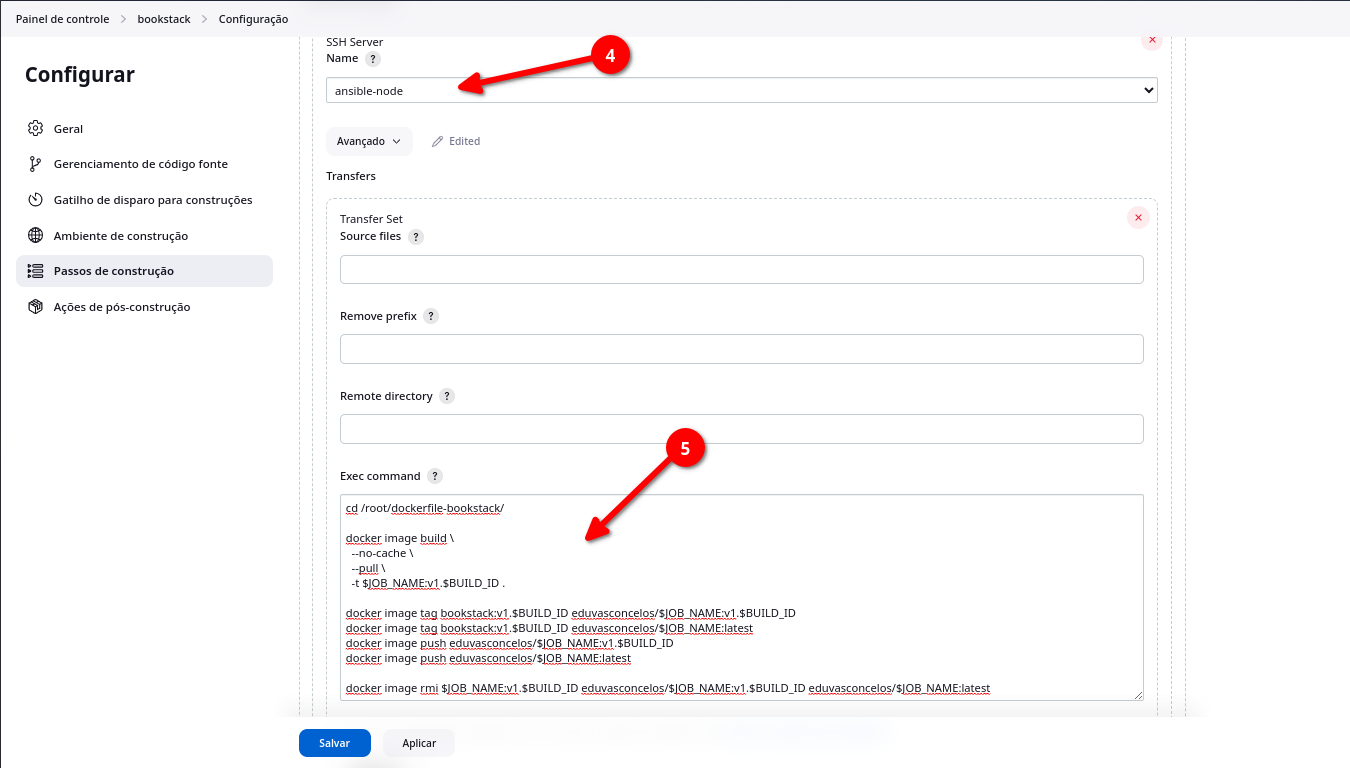
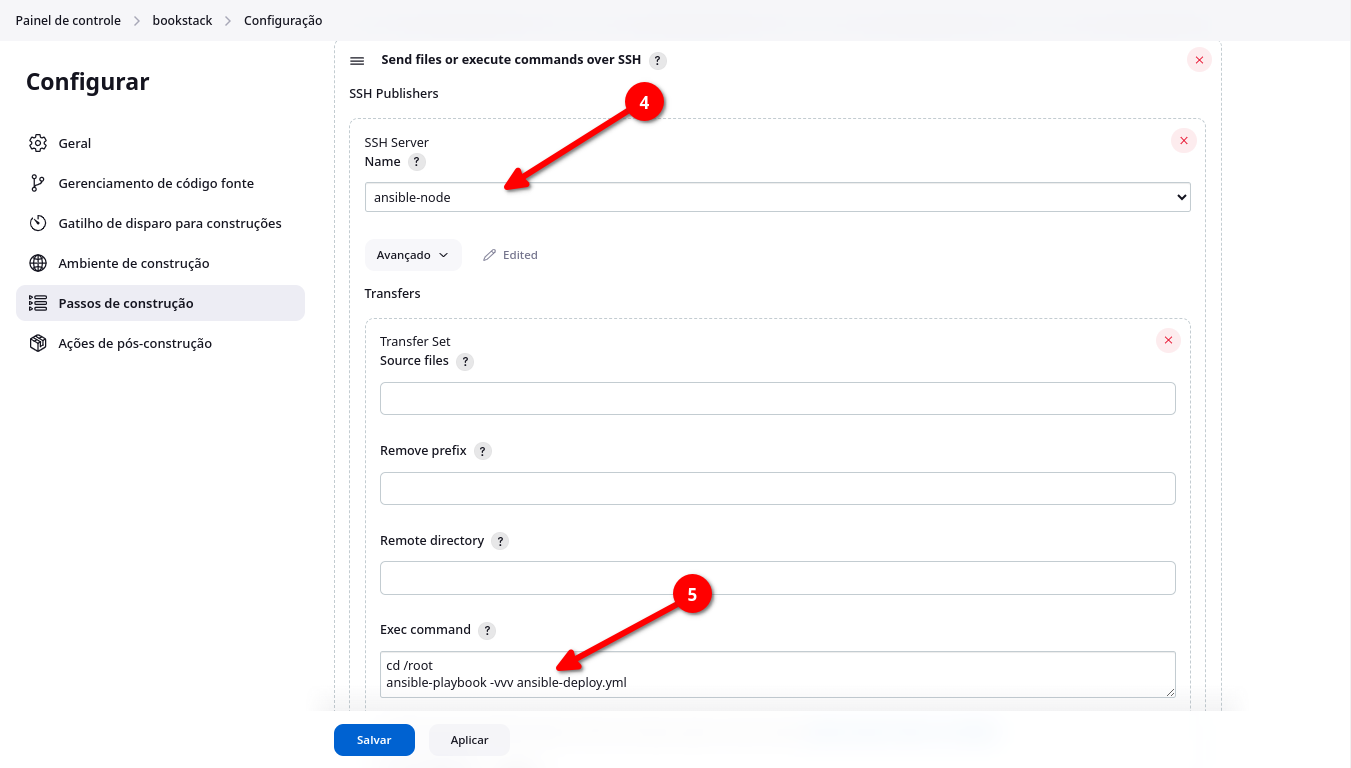
atualizando a doc

diff --git a/docs/index.md b/docs/index.md
@@ -26,11 +26,6 @@ Para fazer isso você deve alterar o arquivo "hosts", para isso, execute o segui
 172.24.9.81 jenkins-node
 172.24.9.80 webapp-node
 
-# The following lines are desirable for IPv6 capable hosts
-::1     localhost ip6-localhost ip6-loopback
-ff02::1 ip6-allnodes
-ff02::2 ip6-allrouters
-
 # LEMBRE-SE! Mude os IPs e os hostnames de acordo com sua necessidade, um IP e hostname que sirvam para mim podem não servir para você e vice-versa.
 ```
 
@@ -45,16 +40,16 @@ nano /etc/ssh/sshd_config
 PermitRootLogin yes
 ```
 
-Para aplicar as alterações feitas, reinicie sua máquina, você pode usar o comando `sudo systemctl sshd`.
+Para aplicar as alterações feitas, reinicie o serviço de sshd, você pode usar o comando `sudo systemctl restart sshd`
 
 Para a conexão do cluster funcionar, precisamos da chave SSH. Somente assim as máquinas poderão comunicar-se entre si com segurança e agilidade. Execute o seguinte comando nos dois nodes para gerar a chave SSH:
 
 ```bash
 ssh-keygen -t ed-25519
-# Agora é só dar enter até cansar
+# Agora é só apertar "enter" até cansar
 ```
 
-Após isso, vamos criar um arquivo de configuração ssh nos dois nodes para automatizar a "passagem" das chaves SSH de um node para o outro. Crie um arquivo de configuração ssh com o comando `nano ~/.ssh/config`.
+Após isso, vamos criar um arquivo de configuração ssh nos dois nodes para automatizar a "passagem" das chaves SSH de um node para o outro. Crie um arquivo de configuração ssh com o comando `nano ~/.ssh/config`
 
 ```bash
 Host ansible-node
@@ -70,7 +65,7 @@ Host webapp-node
 # LEMBRE-SE! Mude o 'Host' e 'hostname' de acordo com sua necessidade
 ```
 
-Além disso, mude as permissões do arquivo de configuração nos dois nodes com `chmod 600 ~/.ssh/config`.
+Além disso, mude as permissões do arquivo de configuração nos dois nodes com `chmod 600 ~/.ssh/config`
 
 Por fim, execute esses comandos, nos três servers, para "enviar" a chave ssh de um node para o outro:
 
@@ -92,17 +87,17 @@ ssh-copy-id webapp-node
 
 # Instalando o Jenkins no jenkins-node
 
-Você pode instalar o Jenkins com o script que eu disponibilizei no repositório devops-ci-cd-bookstack. Há duas maneiras que você pode ter acesso ao script.
+Você pode instalar o Jenkins com o script que eu disponibilizei no repositório [devops-ci-cd-bookstack](https://github.com/EduardoVasconceloss/devops-ci-cd-project). Há duas maneiras que você pode ter acesso ao script:
 
 - **1° Opção:** Clone o repositório para fazer o download do script.
 
-```bash
+````bash
 git clone https://github.com/EduardoVasconceloss/devops-ci-cd-bookstack.git
 cd devops-ci-cd-bookstack
 ./install-jenkins.sh
-```
+```s
 
-- **2° Opção:** Crie o arquivo do script localmente nano install-jenkins.sh e cole o código abaixo no arquivo.
+- **2° Opção:** Crie o arquivo do script localmente com o comando `nano install-jenkins.sh` e cole o código abaixo no arquivo criado.
 
 ```bash
 #!/bin/bash
@@ -118,6 +113,85 @@ echo deb [signed-by=/usr/share/keyrings/jenkins-keyring.asc] \
 sudo apt update -y
 sudo apt install -y fontconfig openjdk-17-jre-headless openjdk-17-jre
 sudo apt install -y jenkins
-```
+````
 
 > **Lembre-se:** Se você optar por fazer a **2° opção**, você deve mudar as permissões do arquivo "install-jenkins.sh" com o comando `chmod +x install-jenkins.sh`. Agora para executar o script basta executar `./install-jenkins.sh`.
+
+---
+
+# Instalando o Ansible e Docker no ansible-node
+
+> **Nota:** Você pode instalar o Ansible e o Docker com os scripts que eu disponibilizei no repositório [devops-ci-cd-bookstack](https://github.com/EduardoVasconceloss/devops-ci-cd-project).
+
+- **1° Passo:** Capture os arquivos via **"SCP"** do **jenkins-node** para o **ansible-node** e entre no diretório onde os scripts estão.
+
+```bash
+scp root@jenkins-node:/var/lib/jenkins/workspace/bookstack/install-*  /var/tmp/ && cd /var/tmp/
+```
+
+- **2° Passo:** Execute os scripts do Ansible e Docker.
+
+```bash
+# Primeiramente, execute o script do ansible
+./install-ansible.sh
+
+# Segundamente, execute o script do docker
+./install-docker.sh
+```
+
+## Configurando o Ansible e Docker no ansible-node
+
+Você deve editar o arquivo de configuração do ansible para que possamos executar o playbook sem problemas.
+
+- Acesse o diretório do ansible com o comando `cd /etc/ansible/` e altere o arquivo de configuração do ansible com o comando `nano ansible.cfg`.
+
+```bash
+# O seu "ansible.cfg" deve estar com essa configuração:
+[defaults]
+inventory = /etc/ansible/hosts
+remote_user = root
+private_key_file = /root/.ssh/id_ed25519
+```
+
+- Agora altere seu arquivo **"hosts"** para que o ansible se conecte com outros servidores.
+
+```bash
+[ansible-node]
+<IP-do-ansible-node>
+
+[jenkins-node]
+<IP-do-jenkins-node>
+
+[webapp-node]
+<IP-do-webapp-node>
+```
+
+- Por fim, faça o login com sua conta do Dockerhub para ter poder fazer o upload de suas imagens.
+
+```bash
+docker login
+```
+
+---
+
+# Instalando e configurando o Docker no webapp-node
+
+> **Nota:** Você pode instalar o Ansible e o Docker com os scripts que eu disponibilizei no repositório [devops-ci-cd-bookstack](https://github.com/EduardoVasconceloss/devops-ci-cd-project).
+
+- **1° Passo:** Capture os arquivos via **"SCP"** do **jenkins-node** para o **webapp-node** e entre no diretório onde os scripts estão.
+
+```bash
+scp root@jenkins-node:/var/lib/jenkins/workspace/bookstack/install-*  /var/tmp/ && cd /var/tmp/
+```
+
+- **2° Passo:** Execute os scripts do Docker.
+
+```bash
+./install-docker.sh
+```
+
+- **3° Passo:** Faça o login na sua conta do Dockerhub.
+
+```bash
+docker login
+```

diff --git a/docs/jenkins.md b/docs/jenkins.md
@@ -106,6 +106,8 @@ Uma tarefa serve para automatizar uma série de etapas em um pipeline de CI/CD. 
 
 Após criar a tarefa, falta configurará-la.
 
+---
+
 #### Adicionando o código fonte
 
 Vamos adicionar os nossos arquivos necessários para o deploy do Bookstack ao Jenkins via Git.
@@ -120,6 +122,8 @@ Vamos adicionar os nossos arquivos necessários para o deploy do Bookstack ao Je
 
 - **4° passo:** Selecione a branch do seu repositório, no meu caso é a **"main"**.
 
+---
+
 #### Enviando o código-fonte para os servidores.
 
 Os "passos de construção" em uma tarefa do Jenkins são comandos ou scripts que são executados para realizar uma parte específica do processo de construção ou implantação. Eles são a parte central de uma tarefa do Jenkins, pois definem as ações que devem ser executadas quando a tarefa é executada.
@@ -133,7 +137,7 @@ Os "passos de construção" em uma tarefa do Jenkins são comandos ou scripts qu
 - **3° passo:** No campo **"Exec command"**, cole os seguintes comandos:
 
 ```bash
-rsync -avh /var/lib/jenkins/workspace/bookstack/* root@ansible-node:/root && rsync -avh /var/lib/jenkins/workspace/bookstack/docker-compose.yml /var/lib/jenkins/workspace/bookstack/install-docker.sh root@webapp-node:/root
+rsync -avh /var/lib/jenkins/workspace/bookstack/* root@ansible-node:/root && rsync -avh /var/lib/jenkins/workspace/bookstack/docker-compose.yml root@webapp-node:/root
 ```
 
 Agora é só clicar em **"Aplicar"** e depois clique em **"Salvar"**.
@@ -142,9 +146,9 @@ Agora é só clicar em **"Aplicar"** e depois clique em **"Salvar"**.
 
 ![construindo a tarefa](assets/build-passo-de-construcao-1.png)
 
-> **Nota:** No **3° passo**, estamos enviando os arquivos do nosso repositório git para o diretório **"/root"** do servidor **"ansible-node"** e também estamos enviando os arquivos "docker-compose.yml" e "install-docker.sh" para o diretório **"/root"** do servidor **"webapp-node"**.
+> **Nota:** No **3° passo**, estamos enviando os arquivos do nosso repositório git para o diretório **"/root"** do servidor **"ansible-node"** e também estamos enviando os arquivos "docker-compose.yml" para o diretório **"/root"** do servidor **"webapp-node"**.
 
-######
+---
 
 ![passos-de-construcao-2](assets/passos-de-construcao-2.png)
 
@@ -153,50 +157,32 @@ Agora é só clicar em **"Aplicar"** e depois clique em **"Salvar"**.
 - **5° passo:** No campo **"Exec command"**, cole os seguintes comandos:
 
 ```bash
-cd /root/dockerfile-bookstack/
-
-docker image build \
-  --no-cache \
-  --pull \
-  -t $JOB_NAME:v1.$BUILD_ID .
-
-docker image tag bookstack:v1.$BUILD_ID eduvasconcelos/$JOB_NAME:v1.$BUILD_ID
-docker image tag bookstack:v1.$BUILD_ID eduvasconcelos/$JOB_NAME:latest
-docker image push eduvasconcelos/$JOB_NAME:v1.$BUILD_ID
-docker image push eduvasconcelos/$JOB_NAME:latest
-
-docker image rmi $JOB_NAME:v1.$BUILD_ID eduvasconcelos/$JOB_NAME:v1.$BUILD_ID eduvasconcelos/$JOB_NAME:latest
+cd /root
+ansible-playbook -vvv ansible-deploy.yml
 ```
 
 ![passos-de-construcao-3](assets/passos-de-construcao-3.png)
 
-- **6° passo:** Adicione mais um passo de construção e selecione o servidor **"ansible-node"**.
+- **6° passo:** No campo **"Exec timeout (ms)"**, mude o valor para **"0"**.
 
-- **7° passo:** No campo **"Exec command"**, cole os seguintes comandos:
+- **7° passo:** Aplique as alterações feitas.
 
-```bash
-cd /root/dockerfile-mariadb/
+- **8° passo:** Por fim, basta salvar sua tarefa.
 
-docker image build \
-  --pull \
-  --no-cache \
-  -t mariadb:v1.$BUILD_ID .
+---
 
-docker image tag mariadb:v1.$BUILD_ID eduvasconcelos/mariadb:v1.$BUILD_ID
-docker image tag mariadb:v1.$BUILD_ID eduvasconcelos/mariadb:latest
-docker image push eduvasconcelos/mariadb:v1.$BUILD_ID
-docker image push eduvasconcelos/mariadb:latest
+### Constuindo a tarefa criada
 
-docker image rmi mariadb:v1.$BUILD_ID eduvasconcelos/mariadb:v1.$BUILD_ID eduvasconcelos/mariadb:latest
-```
+Depois de tudo estar configurado, é hora de fazer a mágica acontercer, precisamos construir a tarefa "bookstack".
 
-![passos-de-construcao-4](assets/passos-de-construcao-4.png)
+![construindo o bookstasck](assets/construindo-bookstack.png)
 
-- **8° passo:** Adicione mais um passo de construção e selecione o servidor **"ansible-node"**.
+- **1° Passo:** Clique em **"Construir agora"** para começar a construção da tarefa.
 
-- **9° passo:** No campo **"Exec command"**, cole os seguintes comandos:
+- **2° Passo:** Perceba que a sua construção vai aparecer no canto inferior esquerdo. Clique no ícone que aparece à esquerda da "numeração" da sua tarefa.
 
-```bash
-cd /root
-ansible-playbook deploy-container.yml
-```
+Após realizar esses dois passos, você irá ver os logs da construção da sua tarefa.
+
+![construção finalizada com sucesso](assets/construcao-success.png)
+
+Se tudo correr bem, você vai ver a saída **"Finished: SUCCESS"**, isso quer dizer que a construção da tarefa foi finalizada e não foram encontrados erros durante o processo.
